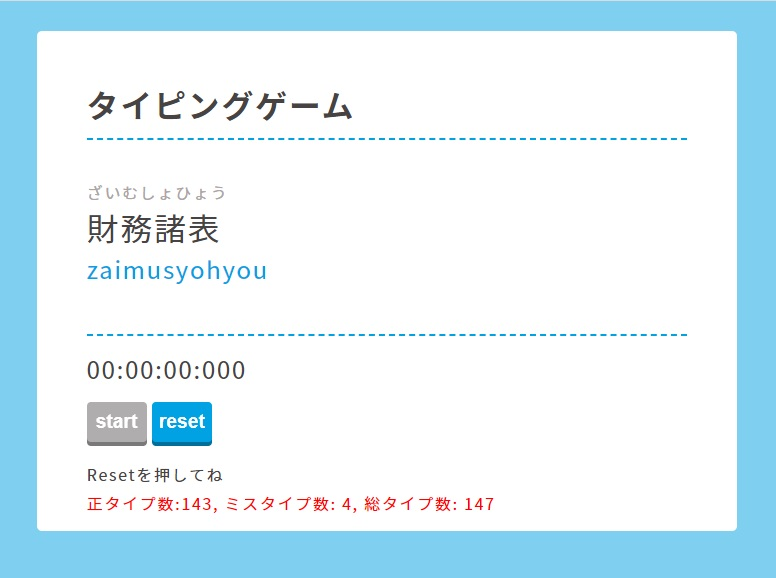
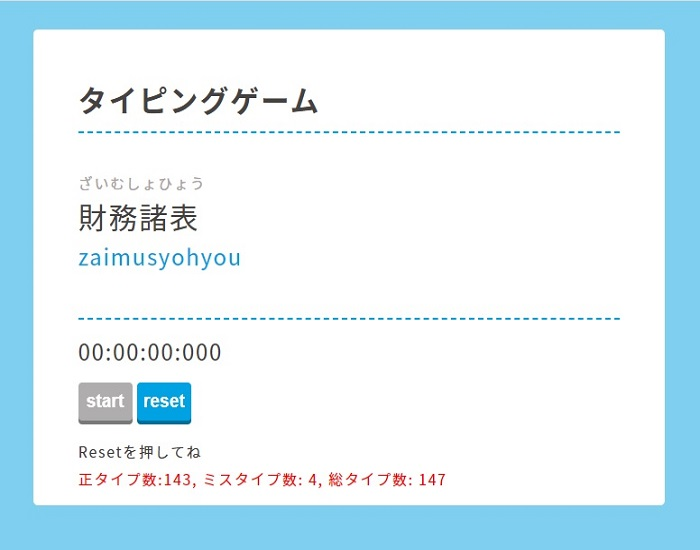
各アプリケーション画像のサイズ変更

diff --git a/index.html b/index.html
@@ -32,7 +32,7 @@
       <h1>Works</h1>
       <section>
         <h2>初心者向けの英会話教室</h2>
-        <div class="english-conversation">
+        <div class="section-image">
           <a href="#"><img src="image/enjoy-conversation.jpg" alt="初心者向けの英会話教室"></a>
         </div>
         <div class="section-text">
@@ -48,7 +48,7 @@
       </section>
       <section>
         <h2>タイピングゲーム</h2>
-        <div class="english-conversation">
+        <div class="section-image">
           <a href="https://kacasss.github.io/portfolio-typing/"><img src="image/typinggame.jpg" alt="タイピングゲーム"></a>
         </div>
         <div class="section-text">
@@ -57,14 +57,14 @@
             タイピングゲームを作成しました。
             30秒間で簿記の勘定科目を入力するゲームです。<br>
             時間内に合計143文字打ち終わったら強制終了し、
-            正タイプ数、ミスタイプ、総タイプ数を表示します。<br>
+            正タイプ数、ミスタイプ、総タイプ数を表示します。
             複数入力対応はしておりません。(ふ：fu、hu)
           </p>
         </div>
       </section>
       <section>
         <h2>社員管理アプリケーション</h2>
-        <div class="english-conversation">
+        <div class="section-image">
           <img class="slideshow" src="image/application1.jpg" alt="社員アプリケーションの画像1">
           <img class="slideshow" src="image/application2.jpg" alt="社員アプリケーションの画像2">
           <img class="slideshow" src="image/application3.jpg" alt="社員アプリケーションの画像3">

diff --git a/css/style.css b/css/style.css
@@ -53,17 +53,24 @@ section {
   margin-bottom: 100px;
   padding: 0;
   width: 900px;
-  height: 800px;
+  height: 900px;
 }
 
 section:not(:first-child) {
-  margin-bottom: 200px;
+  margin-bottom: 100px;
 }
 
-.english-conversation {
+.section-image {
   position: relative;
-  width: 800px;
-  height: 600px;
+  width: 700px;
+  height: 550px;
+  margin: 0 auto;
+}
+
+.section-image img:not(:last-child) {
+  width: 100%;
+  height: 100%;
+  cursor: pointer;
 }
 
 .slideshow {
@@ -153,23 +160,17 @@ section:not(:first-child) {
   }
 }
 
-.english-conversation img:not(:last-child) {
-  width: 800px;
-  height: 600px;
-  cursor: pointer;
-}
-
 section h2 {
   font-size: 32px;
   padding: 0;
   padding-top: 100px;
   margin: 20px auto;
-  width: 800px;
+  width: 700px;
 }
 
 .section-text {
   margin: 0 auto;
-  width: 800px;
+  width: 700px;
 }
 
 .section-text p{
